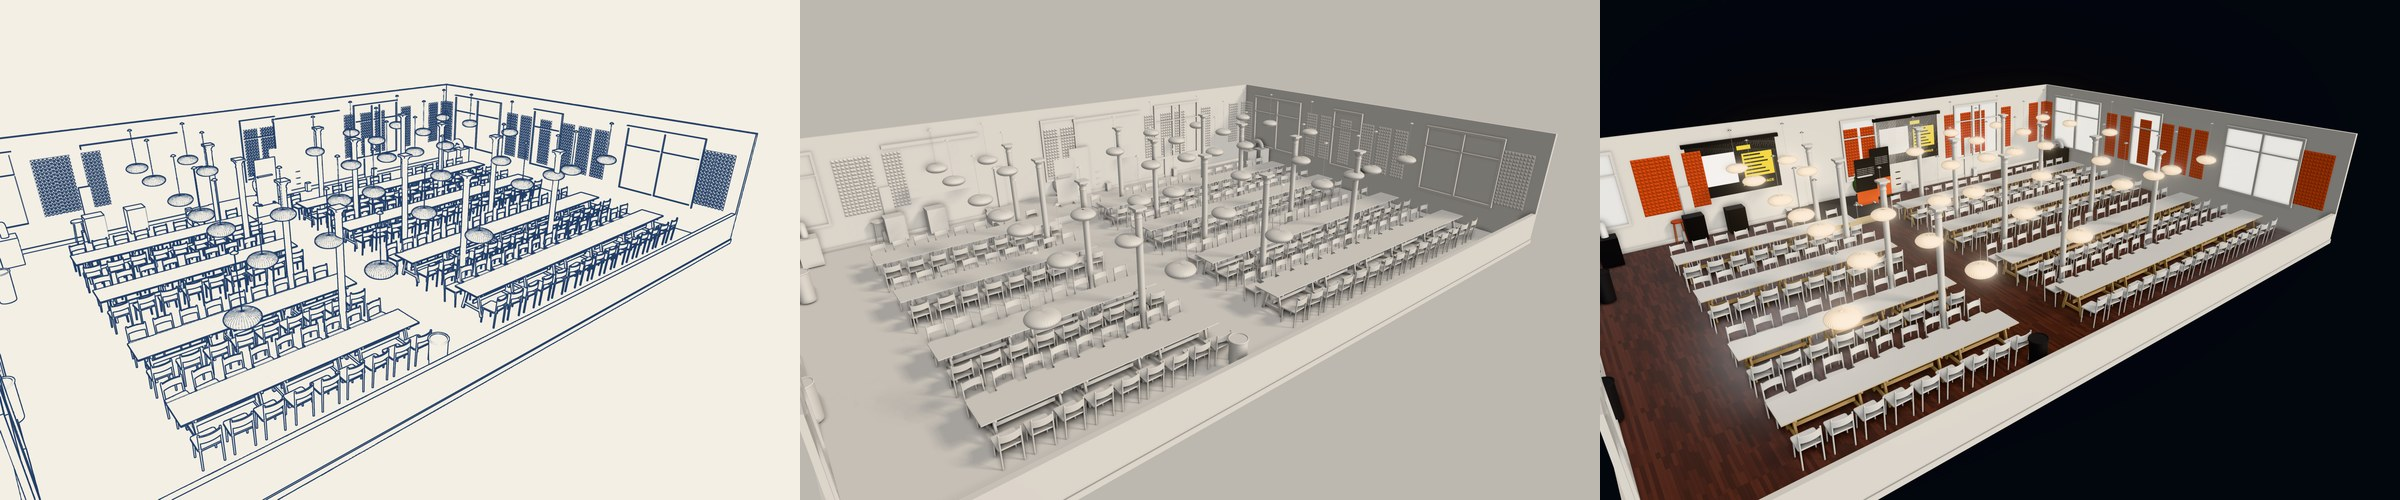
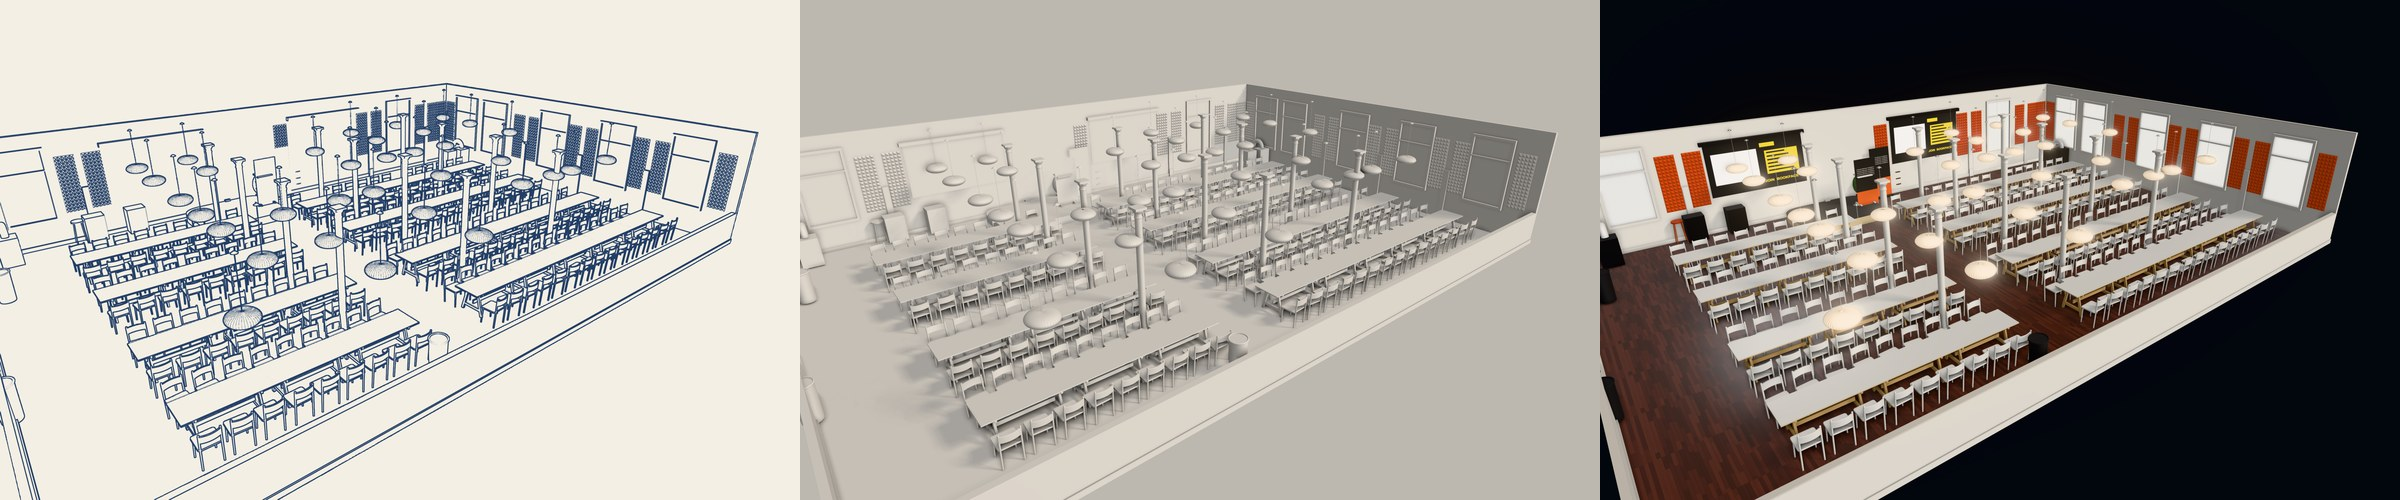
Media and mockups re-rendered with the corrected hall walls; item counts updated

diff --git a/assets/README.md b/assets/README.md
@@ -3,7 +3,7 @@
 Upload these into the Emergent project when prompt **L1** (docs/EMERGENT_LEAN_PLAN.md) asks for them.
 
 ## Scenes (two venues)
-- `venue_twin.json`: **VibeCon Hall**, reconstructed from our scan. Room outline, 3.68 m ceiling, 385 items (188 chairs, 32 tables, 12 columns, 34 pendant lamps, 50 orange panels, windows, doors, stage, screens…). `inferred: true` marks items filled in by pattern where the scan had no coverage.
+- `venue_twin.json`: **VibeCon Hall**, reconstructed from our scan. Room outline, 3.68 m ceiling, 361 items (188 chairs, 32 tables, 12 columns, 34 pendant lamps, 37 orange acoustic panels in pairs on the piers between 8 windows, doors, stage, screens…). `inferred: true` marks items filled in by pattern where the scan had no coverage.
 - `theater_twin.json`: **Studio Theater**, a 152-seat black-box theater (15 × 16 m, 6.4 m lighting grid). It has:
   - a stage deck with red house curtains, valance and a lit cyclorama
   - 6 seating tiers with 120 theater seats (rows C–H), plus 2 floor rows of 32 loose chairs (rows A–B)
